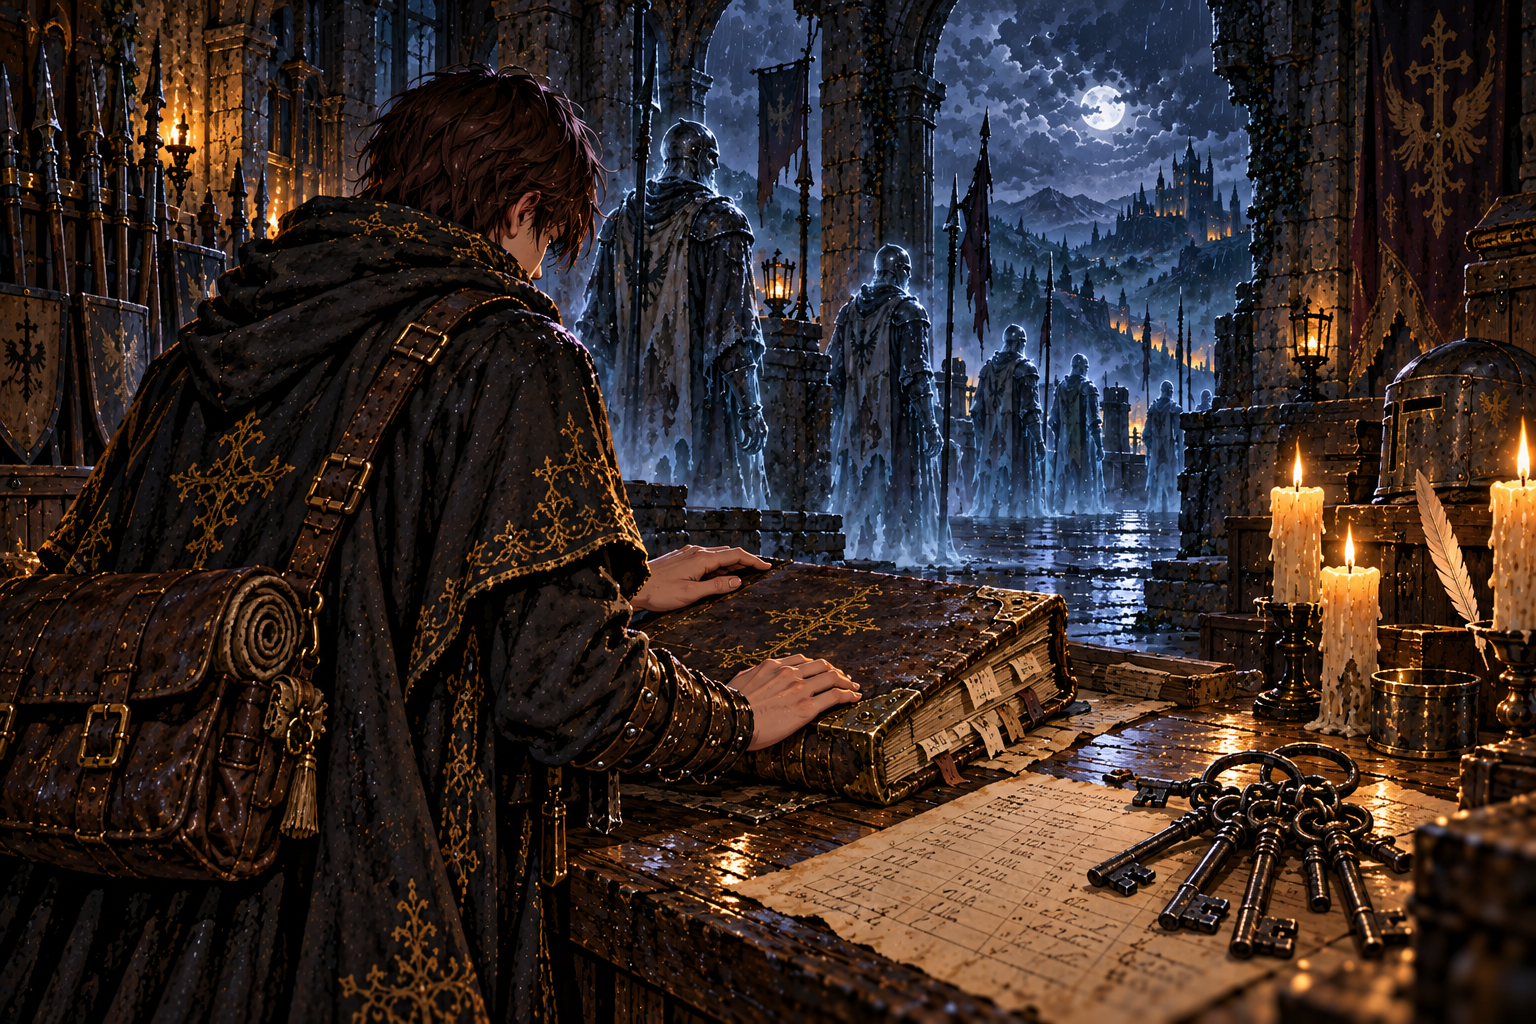
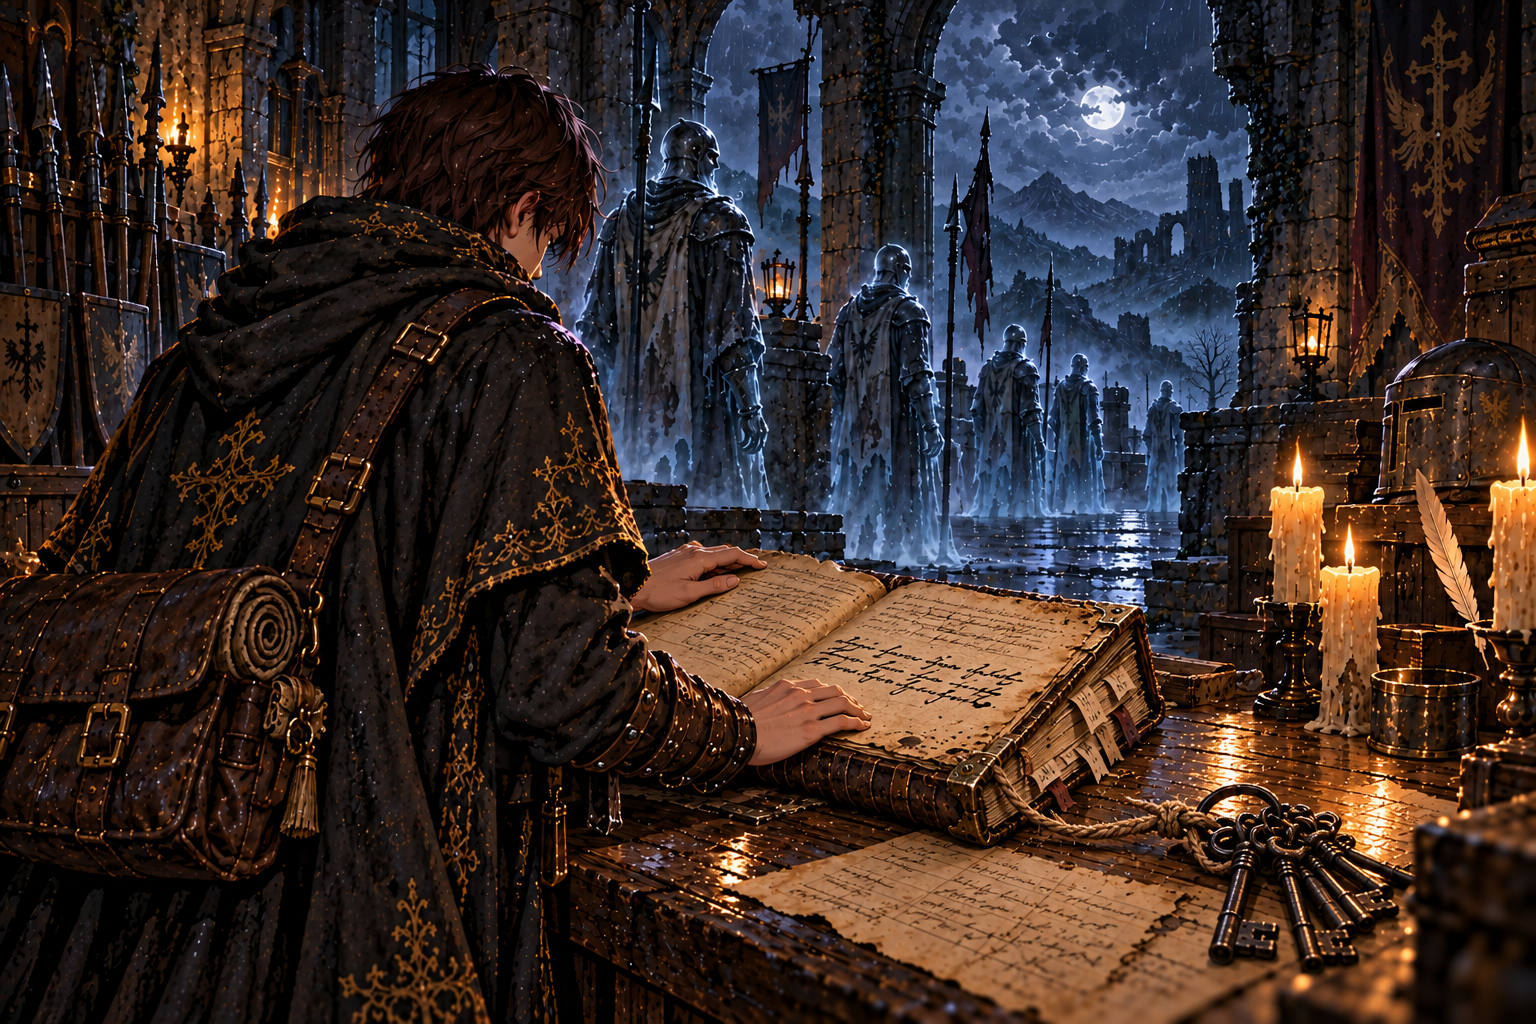
fix: 守備隊の当直簿の挿絵を本文に合わせる

diff --git a/art/story-review/review/status.md b/art/story-review/review/status.md
@@ -2,7 +2,7 @@
 
 書き出し: `node tools/storyart/review.mjs` (build.py も書き直す。手で直さない)。
 
-場面: 出荷済み 98 ・ 出荷済み (任意の修正あり) 12 ・ 出荷済み・修正待ち 5 ・ 未着手 (指示あり) 9
+場面: 出荷済み 99 ・ 出荷済み (任意の修正あり) 11 ・ 出荷済み・修正待ち 5 ・ 未着手 (指示あり) 9
 
 | 章 | 場面 | 題 | 状態 | 確認ページ |
 |---|---|---|---|---|
@@ -30,7 +30,7 @@
 | 第1章「師の灯」 | `report_w05` | 捨て砦の門が開く | 出荷済み | [見る](chapter1.md#report_w05) |
 | 第1章「師の灯」 | `irene_fort` | 待つ者の願い | 出荷済み | [見る](chapter1.md#irene_fort) |
 | 第1章「師の灯」 | `ch1_end` | 灯を置いて、先へ | 出荷済み (任意の修正あり) | [見る](chapter1.md#ch1_end) |
-| 第2章「捨て砦」 | `w06_roll` | 交代のない当直 | 出荷済み (任意の修正あり) | [見る](chapter2.md#w06_roll) |
+| 第2章「捨て砦」 | `w06_roll` | 交代のない当直 | 出荷済み | [見る](chapter2.md#w06_roll) |
 | 第2章「捨て砦」 | `report_w06` | 守れと命じ、迎えなかった | 出荷済み | [見る](chapter2.md#report_w06) |
 | 第2章「捨て砦」 | `w07_names` | 消されなかった名 | 出荷済み | [見る](chapter2.md#w07_names) |
 | 第2章「捨て砦」 | `w07_sera` | 声の残る独房 | 出荷済み | [見る](chapter2.md#w07_sera) |

diff --git a/docs/art/codex-story-art-brief.md b/docs/art/codex-story-art-brief.md
@@ -490,7 +490,7 @@ Character reference sheet on a plain dark slate-blue background with soft even l
 | 第一章 report_w01 `art/story-review/chapter1/report_w01.png` | 新しい序章に合わせ、王への報告後に王宮の倉庫で眠っていた人業を受け取る場面へ。王が魂を渡す場面にしない (済) |
 | 第一章 w01_lantern `art/story-review/chapter1/w01_lantern.png` | ひび割れた据え付けの鎮魂灯と、傍らの崩れた墓石にある小さな真ちゅう製の師のランタンを別の物として描く (済) |
 | 第一章 report_w02 | 窓の外の地上の修道院の廃墟を消す (修道院は地下) |
-| 第二章 w06_roll | 鍵束を当直簿をとじた紐に結ぶ。窓の外の灯る城を消す |
+| 第二章 w06_roll | 発見時の開いた当直簿に、百年前の薄い乱筆とその下の新しい墨の追記を描き分ける（文字は読めない走り書き）。さびた鍵束を帳面の紐に結び、結び直した跡を見せる。窓外の灯る城・集落を暗い荒廃した風景へ替える (済) |
 | 第二章 mem_w09 | 書状を握りつぶした形に |
 | 第三章 report_w12 | 杯を玉座の肘掛けの上に (本文「肘掛けの杯」)。抱えた包みを胴らしく (黒鉄の継ぎ目をのぞかせる) |
 | 第三章 report_w11 | 奥の髑髏飾りの二つ目の玉座を、空いた宰相の椅子らしく小さく |

diff --git a/art/story-review/review/chapter2.md b/art/story-review/review/chapter2.md
@@ -5,7 +5,7 @@
 
 <a name="w06_roll"></a>
 
-## w06_roll「交代のない当直」 ── 出荷済み (任意の修正あり)
+## w06_roll「交代のない当直」 ── 出荷済み
 
 <img src="../../../art/story/chapter2/w06_roll.webp" width="576" alt="w06_roll">
 
@@ -32,10 +32,6 @@
 > 当直簿をとじた紐には、さびた鍵束が結ばれていた。紐には、一度ほどいて結び直した跡がある。
 >
 > ── 新たな迷宮「捨て砦の地下牢」が地図に記された。
-
-**修正 (任意)**
-
-- 鍵束を当直簿をとじた紐に結ぶ。窓の外の灯る城を消す
 
 <a name="report_w06"></a>
 
